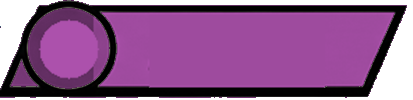
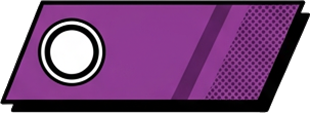
Botones de ataque nuevos, uno por tipo
Los 18 de la hoja de Firefly (estilo comic, del color de cada tipo, con el
circulo donde va el icono). A 310x112 en dos filas dentro del panel; el
icono de tipo como insignia en el circulo, siguiendo el latido del boton
elegido, y el nombre a su derecha con la letra mas grande que quepa.
Prompts en recursos/prompts_contenedores_ataque.txt.

diff --git a/Pokémon Ostinato/Plugins/Ostinato/016_CombateHD.rb b/Pokémon Ostinato/Plugins/Ostinato/016_CombateHD.rb
@@ -726,8 +726,13 @@ end
 # Los ataques
 #-------------------------------------------------------------------------------
 class Battle::Scene::FightMenu
-  OST_BOTONES = [[268, 894], [670, 894], [262, 1006], [666, 1006]]
-  OST_CIRCULO = [68, 49]           # el hueco del icono, dentro del boton
+  # los botones de la hoja de Firefly (Descargasinterfaz_combatetaques),
+  # 310x112, en dos filas dentro del panel blanco; la de abajo, un poco a la
+  # izquierda siguiendo la inclinacion
+  OST_BOTONES = [[315, 894], [665, 894], [303, 1006], [653, 1006]]
+  OST_CIRCULO = [71, 52]           # el circulo del icono, dentro del boton
+  OST_ICONO   = 0.52               # el icono de tipo (96 px), como insignia en el circulo
+  OST_NOMBRE  = [42, -4, 172]      # el nombre: desplazamiento desde el centro y ancho
   OST_PP      = [931, 864, 255, 164]
   OST_DESC    = [1268, 858, 612, 196]
 
@@ -759,7 +764,7 @@ class Battle::Scene::FightMenu
       s.bitmap = OstCombate.bmp("tipos/NORMAL")
       s.ox = s.bitmap.width / 2
       s.oy = s.bitmap.height / 2
-      s.zoom_x = s.zoom_y = 0.84
+      s.zoom_x = s.zoom_y = OST_ICONO
       addSprite("icono_#{i}", s)
       next s
     end
@@ -788,15 +793,24 @@ class Battle::Scene::FightMenu
       dx = sel ? 14 : 0
       s.x = OST_BOTONES[i][0] + dx
       s.y = OST_BOTONES[i][1] - (sel ? 4 : 0)
-      s.tone = sel ? Tone.new(30, 30, 30) : Tone.new(-55, -55, -55, 60)
+      s.tone = sel ? Tone.new(30, 30, 30) : Tone.new(-35, -35, -35, 40)
       s.zoom_x = s.zoom_y = sel ? 1.06 : 1.0
       s.opacity = (@ostVacio && @ostVacio[i]) ? 110 : 255
+      ost_icono(i)
       ic = @ostIconos[i]
-      ic.x = s.x - s.ox + OST_CIRCULO[0]
-      ic.y = s.y - s.oy + OST_CIRCULO[1]
       ic.visible = @visible && @visibility["button_#{i}"] && !(@ostVacio && @ostVacio[i])
       @visibility["icono_#{i}"] = @visibility["button_#{i}"] && !(@ostVacio && @ostVacio[i])
     end
+  end
+
+  # el icono de tipo en el circulo del boton, siguiendo su zoom (el elegido late)
+  def ost_icono(i)
+    s = @buttons[i]
+    ic = @ostIconos[i]
+    return if !s || !ic || s.disposed? || ic.disposed?
+    ic.x = s.x + (OST_CIRCULO[0] - s.ox) * s.zoom_x
+    ic.y = s.y + (OST_CIRCULO[1] - s.oy) * s.zoom_y
+    ic.zoom_x = ic.zoom_y = OST_ICONO * s.zoom_x
   end
 
   alias ostcomb_refreshButtonNames refreshButtonNames
@@ -805,12 +819,20 @@ class Battle::Scene::FightMenu
     moves = (@battler) ? @battler.moves : []
     b = @overlay.bitmap
     b.clear
-    OstCombate.fuente(b, 46)
     @buttons.each_with_index do |s, i|
       next if !moves[i]
-      x = OST_BOTONES[i][0] + ((i == @index) ? 10 : 0)
-      y = OST_BOTONES[i][1] - OstCombate::BARRA_Y
-      OstCombate.texto(b, x - 100, y - 30, 280, 60, moves[i].name.upcase, 1,
+      x = OST_BOTONES[i][0] + ((i == @index) ? 14 : 0) + OST_NOMBRE[0]
+      y = OST_BOTONES[i][1] - ((i == @index) ? 4 : 0) - OstCombate::BARRA_Y + OST_NOMBRE[1]
+      w = OST_NOMBRE[2]
+      nombre = moves[i].name.upcase
+      # la letra mas grande que quepa a la derecha del circulo
+      tam = 42
+      OstCombate.fuente(b, tam)
+      while tam > 28 && b.text_size(nombre).width > w
+        tam -= 2
+        OstCombate.fuente(b, tam)
+      end
+      OstCombate.texto(b, x - w / 2, y - 30, w, 60, nombre, 1,
                        Color.new(255, 255, 255), Color.new(0, 0, 0), 3)
     end
   end
@@ -978,6 +1000,7 @@ class Battle::Scene::FightMenu
     z = 1.06 + 0.025 * Math.sin(System.uptime * 7)
     s.zoom_x = z
     s.zoom_y = z
+    ost_icono(@index)
   end
 end
 
